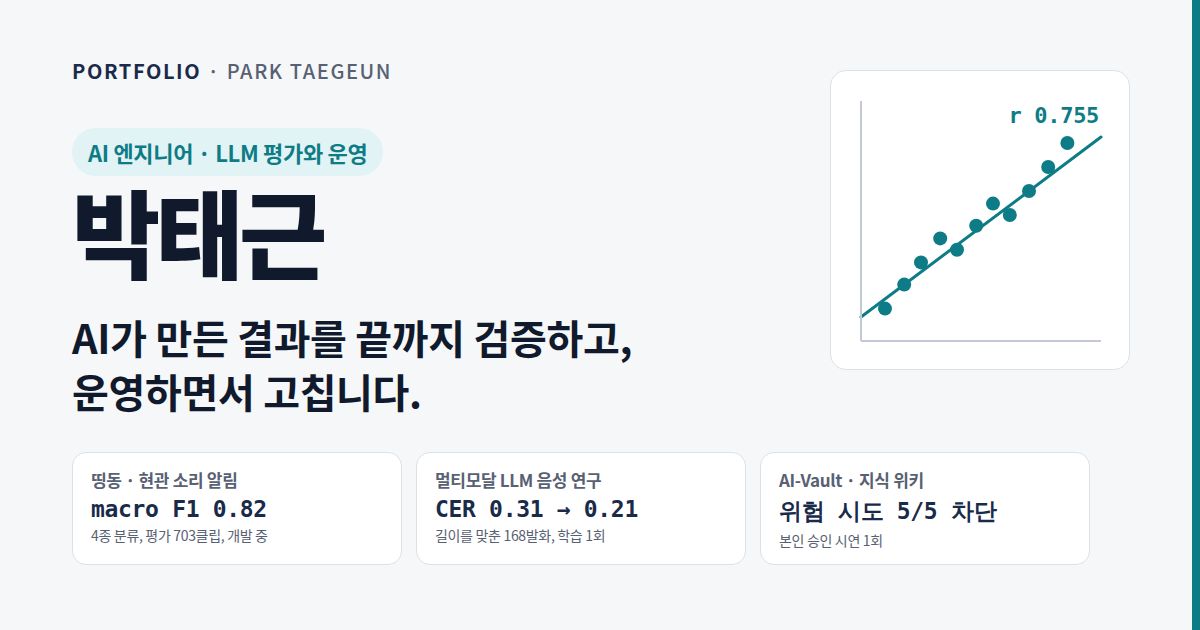
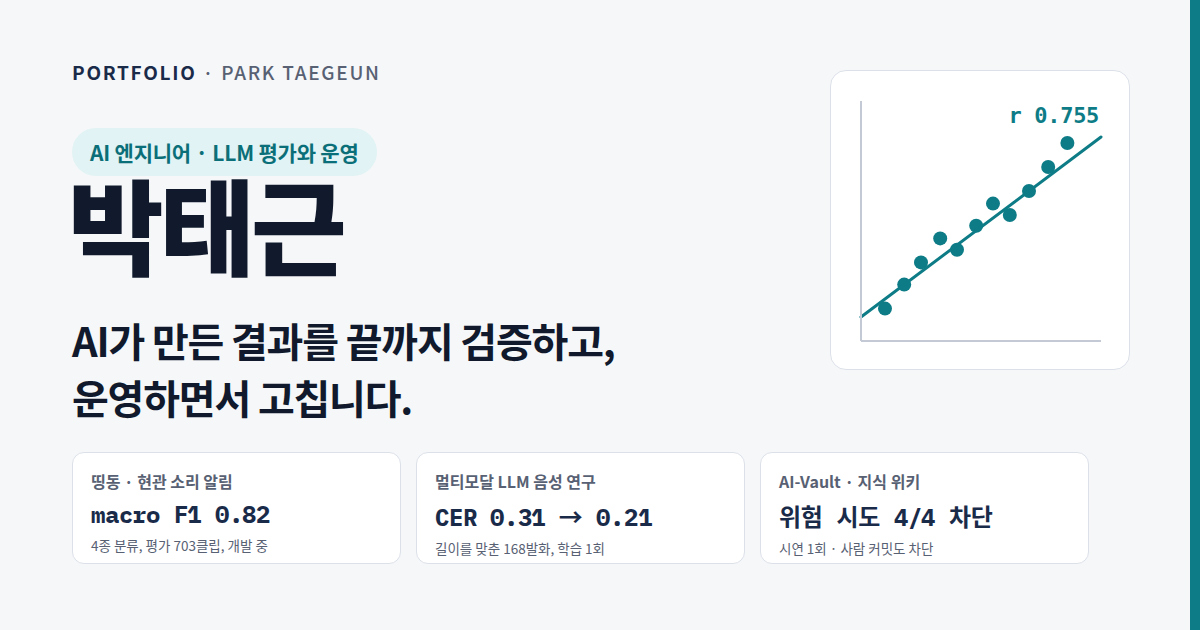
AI-Vault 안전장치 시연을 화면으로 확인한 4건 + 커밋 1건 기준으로 정정
- 「위험 시도 5/5 차단」 → 「4/4 차단」. 금지 폴더 읽기는 AI 보고에는 차단으로
  나왔지만 진행 화면에서 차단 표시가 확인되지 않아 결과에서 제외
- 사람이 키가 든 파일을 직접 커밋한 경우 공개 커밋 검사가 막은 1건을 함께 표기
- 시연 표 그림: 4행 push(훅 + 권한 설정 이중), 5행 사람의 커밋 실수로 다시 그림
- 상세 페이지 시연 화면: 진행 화면을 먼저, AI 보고 화면 캡션에 제외 이유 명시
- 첫 화면 증거 카드, 프로젝트 패널, 상세 요약·결과 표, 링크 미리보기 문구·이미지 갱신

Claude-Session: https://claude.ai/code/session_01BAyTFfKq1QCbkEf2t16hGA

diff --git a/src/data/rooms.ts b/src/data/rooms.ts
@@ -430,7 +430,7 @@ export const ROOMS: Record<ProjectKey, RoomData> = {
     summary: {
       role: '공개 범위와 보호 기준, 구조와 안전 원칙을 정하고 결과 검토와 승인, 실제 환경 검증, 보안 사고 대응, push를 담당했습니다. 스크립트와 훅 초안, 위키 페이지 작성은 Claude Code에 맡겼습니다.',
       results: [
-        { value: '5/5 차단', label: '위험 작업 차단 시연', cond: '시연 1회, 우회 시도 0' },
+        { value: '4/4 차단', label: '위험 작업 차단 시연', cond: '시연 1회, 사람이 키가 든 파일을 커밋해도 차단' },
         { value: '22 차단 · 18 통과', label: '쓰기 차단 테스트(차단 대상 · 일반 명령)', cond: '허용 목록 방식으로 바꾼 뒤 재시험(2026.10.24)' },
         { value: '1/5 → 5/5', label: '위키만으로 답한 고정 질문', cond: '비공개 5문항, 새 기록 반영 전후, LLM 채점' },
       ],
@@ -438,8 +438,8 @@ export const ROOMS: Record<ProjectKey, RoomData> = {
     },
     mainImage: {
       src: '/images/aivault/demo_table.svg',
-      alt: '안전장치 시연 결과 표. 원본 수정, 비밀값 쓰기, 셸 우회 쓰기, 금지 폴더 읽기, push 다섯 시도와 각각을 막은 장치',
-      caption: 'AI에게 위험한 작업 5가지를 일부러 시킨 시연입니다. 5번 모두 차단됐고, AI는 우회하지 않고 보고했습니다.',
+      alt: '안전장치 시연 결과 표. AI에게 시킨 원본 수정, 비밀값 쓰기, 셸 우회 쓰기, push 네 시도와 사람이 키가 든 파일을 직접 커밋한 경우, 각각을 막은 장치',
+      caption: 'AI에게 위험한 작업 4가지를 일부러 시킨 시연입니다. 4건 모두 실행 직전에 막혔고, 사람이 같은 실수를 해도 커밋 단계에서 다시 막혔습니다.',
       layout: 'wide',
     },
     tracks: [
@@ -462,7 +462,7 @@ export const ROOMS: Record<ProjectKey, RoomData> = {
             rows: [
               { item: '정리 규모', value: '블로그 209편 + 노션 260개 → 위키 약 130페이지(공개 약 120)', cond: '노션은 약 1,370페이지 중 선별. 2026.10.23 기준(10.24 점검 시 전체 132페이지)' },
               { item: '쓰기 차단 테스트', value: '차단 대상 셸 명령 22개 모두 차단, 일반 명령 18개 정상 통과', cond: '허용 목록 방식으로 바꾼 뒤 재시험(2026.10.24)' },
-              { item: '안전장치 시연', value: '위험 작업 5개 모두 차단, 우회 시도 0', cond: '시연 1회. 원본 수정, 비밀값 쓰기, 셸 우회 쓰기, 금지 폴더 읽기, push' },
+              { item: '안전장치 시연', value: 'AI에게 시킨 위험 작업 4건 모두 실행 직전 차단, 사람이 키가 든 파일을 커밋해도 차단', cond: '시연 1회. 원본 수정, 비밀값 쓰기, 셸 우회 쓰기, push(훅과 권한 설정 이중). 금지 폴더 읽기는 화면에서 차단 표시를 확인하지 못해 제외' },
               { item: '성장 측정', value: '위키만으로 답한 문항 1/5 → 5/5, 6/8 → 8/8', cond: '비공개 고정 질문 5·8문항, 새 기록 반영 전후, LLM 채점' },
               { item: '회귀 테스트', value: '29/30 → 30/30', cond: '공개 고정 질문 10문항 × 채점 기준 3개, 원인 수정 전후' },
               { item: '실사용', value: '면접 예상 질문 12개 모두 위키만으로 답변, 꼬리 질문에서 드러난 빈틈 7곳 → 4곳', cond: '2026.10.23, 1회' },
@@ -533,9 +533,9 @@ export const ROOMS: Record<ProjectKey, RoomData> = {
           gallery: {
             label: '안전장치 시연 원본 화면',
             items: [
-              { src: '/images/aivault/demo_terminal.webp', alt: '안전장치 시연 결과를 정리한 터미널 원본 화면. 다섯 시도마다 막은 장치와 막힌 메시지', caption: '시연 결과 원본 화면입니다. 시도별로 차단한 장치와 차단 메시지가 남아 있습니다.' },
-              { src: '/images/aivault/demo_progress.webp', alt: '시연 진행 화면. 막히면 우회하지 말고 보고하라는 지시문과 빨간 차단 메시지', caption: '시연 지시는 ‘시도마다 한 번만, 막히면 우회하지 말고 보고’였습니다.' },
-              { src: '/images/aivault/commit_block.webp', alt: '공개 커밋 검사가 가짜 AWS 키가 든 커밋을 막은 터미널 화면', caption: '공개 커밋 검사가 가짜 AWS 키 커밋을 막은 화면(시연용 가짜 값).' },
+              { src: '/images/aivault/demo_progress.webp', alt: '시연 진행 화면. 막히면 우회하지 말고 보고하라는 지시문, 원본 수정·비밀값 쓰기·셸 우회 쓰기·push에 나온 빨간 차단 메시지', caption: '시연 진행 화면입니다. 원본 수정, 비밀값 쓰기, 셸 우회 쓰기, push 4건에 차단 메시지가 남았고, 4번 금지 폴더 읽기에는 차단 표시가 없습니다.' },
+              { src: '/images/aivault/demo_terminal.webp', alt: 'AI가 시연 결과를 정리한 보고 화면. 시도마다 막은 장치와 막힌 메시지', caption: 'AI가 정리한 결과 보고입니다. 보고는 5건 모두 막혔다고 했지만, 진행 화면에서 차단을 확인한 4건만 결과로 셉니다.' },
+              { src: '/images/aivault/commit_block.webp', alt: '공개 커밋 검사가 가짜 AWS 키가 든 커밋을 막은 터미널 화면', caption: '사람이 같은 실수를 해도 공개 커밋 검사가 가짜 AWS 키 커밋을 막은 화면(AWS 공식 문서의 가짜 예시 키).' },
             ],
           },
         },

diff --git a/src/data/projects.ts b/src/data/projects.ts
@@ -153,7 +153,7 @@ export const PROJECTS: Project[] = [
     oneLine:
       '기술 블로그 209편과 노션 기록 260개를 AI 에이전트(Claude Code)가 읽고 정리해 약 130페이지 규모의 지식 위키로 만들었습니다. 이 중 공개 가능한 약 120페이지는 웹사이트로 배포해 운영하고 있습니다.',
     result:
-      'AI가 규칙을 어겨도 사고로 이어지지 않도록 차단 장치를 5겹으로 두었고, 위험한 작업 5가지(원본 수정, 비밀값 쓰기, 셸 우회 쓰기, 금지 폴더 읽기, push)를 일부러 시킨 시연에서 모두 막혔습니다. 위키 품질은 고정 질문으로 측정했고, 새 기록을 반영한 뒤 위키만으로 답한 문항이 5개 중 1개에서 5개로 늘었습니다.',
+      'AI가 규칙을 어겨도 사고로 이어지지 않도록 차단 장치를 5겹으로 두었습니다. AI에게 원본 수정, 비밀값 쓰기, 셸 우회 쓰기, push를 일부러 시킨 시연에서 4건 모두 실행 직전에 막혔고, 사람이 키가 든 파일을 직접 커밋해도 커밋 검사가 막았습니다. 위키 품질은 고정 질문으로 측정했고, 새 기록을 반영한 뒤 위키만으로 답한 문항이 5개 중 1개에서 5개로 늘었습니다.',
     problem:
       '블로그 글 209편과 노션 약 1,370페이지에 기록이 흩어져 있어, 필요한 내용을 찾으려면 매번 원본을 다시 뒤져야 했습니다. 정리를 AI에게 맡기면 원본을 고치거나 비공개 내용을 공개 영역에 쓰는 사고 위험도 함께 생깁니다.',
     role:
@@ -163,19 +163,19 @@ export const PROJECTS: Project[] = [
     skills: ['AI 에이전트 설계·운영', 'AI 안전장치(거버넌스)', 'LLM 평가 설계', '보안 사고 대응', '자동화 범위 판단'],
     tech: ['Claude Code(훅·스킬·서브에이전트)', 'MCP', 'Python', 'Obsidian', 'Quartz', 'GitHub Actions', 'Git hooks', 'macOS launchd', 'Velog GraphQL API'],
     glance: {
-      metric: '위험 시도 5/5 차단',
-      metricCond: '시연 1회 · 우회 시도 0',
+      metric: '위험 시도 4/4 차단',
+      metricCond: '시연 1회 · 사람 커밋도 차단',
       verb: 'AI가 실수해도 사고로 번지지 않게 차단 장치를 5겹으로 두고, 위키 품질은 고정 질문으로 측정했습니다.',
       jobTags: ['AX', 'AI 엔지니어'],
     },
     previewImage: {
       src: '/images/aivault/demo_table.svg',
-      alt: '안전장치 시연 결과 표. 원본 수정, 비밀값 쓰기, 셸 우회 쓰기, 금지 폴더 읽기, push 다섯 시도와 각각을 막은 장치',
-      caption: 'AI에게 위험한 작업 5가지를 일부러 시킨 시연입니다. 5번 모두 차단됐고, AI는 우회하지 않고 보고했습니다.',
+      alt: '안전장치 시연 결과 표. AI에게 시킨 원본 수정, 비밀값 쓰기, 셸 우회 쓰기, push 네 시도와 사람이 키가 든 파일을 직접 커밋한 경우, 각각을 막은 장치',
+      caption: 'AI에게 위험한 작업 4가지를 일부러 시킨 시연입니다. 4건 모두 실행 직전에 막혔고, 사람이 같은 실수를 해도 커밋 단계에서 다시 막혔습니다.',
     },
     og: {
       title: 'AI-Vault · AI 에이전트로 운영하는 지식 위키 | 박태근',
-      description: '블로그 글 209편과 노션 기록 260개를 AI 에이전트가 정리하는 위키. 차단 장치 5겹, 위험 시도 5/5 차단(시연 1회), 고정 질문으로 품질 측정.',
+      description: '블로그 글 209편과 노션 기록 260개를 AI 에이전트가 정리하는 위키. 차단 장치 5겹, 위험 시도 4/4 차단(시연 1회), 고정 질문으로 품질 측정.',
     },
   },
   {

diff --git a/src/data/showcase.ts b/src/data/showcase.ts
@@ -102,12 +102,12 @@ export const SHOWCASE: ShowcaseItem[] = [
     ],
     steps: ['규칙서(부탁)와 시스템 차단(강제) 분리', '쓰는 순간부터 배포 직전까지 5겹 차단', '고정 질문으로 위키 품질 측정'],
     results: [
-      { text: '위험한 작업 5가지를 일부러 시킨 시연에서 5/5 차단 (시연 1회)', mark: '5/5 차단' },
+      { text: 'AI에게 위험한 작업 4가지를 일부러 시킨 시연에서 4/4 차단 (시연 1회)', mark: '4/4 차단' },
+      { text: '사람이 키가 든 파일을 직접 커밋해도 커밋 검사가 차단' },
       { text: '새 기록 반영 후 위키만으로 답한 고정 질문 1/5 → 5/5' },
-      { text: '공개 저장소 push는 항상 사람이 실행' },
     ],
     tech: ['Claude Code(훅·스킬·서브에이전트)', 'MCP', 'Python', 'Obsidian', 'Quartz', 'GitHub Actions'],
-    media: { kind: 'image', src: p('aivault').previewImage.src, alt: p('aivault').previewImage.alt, caption: '5번 모두 차단됐고, AI는 우회하지 않고 보고' },
+    media: { kind: 'image', src: p('aivault').previewImage.src, alt: p('aivault').previewImage.alt, caption: '4건 모두 실행 직전에 차단, 사람의 커밋 실수도 차단' },
   },
   {
     id: p('decisions-rag').anchorId,

diff --git a/index.html b/index.html
@@ -11,7 +11,7 @@
     <meta property="og:type" content="website" />
     <meta property="og:site_name" content="박태근 포트폴리오" />
     <meta property="og:title" content="박태근 · AI 엔지니어 포트폴리오" />
-    <meta property="og:description" content="AI가 만든 결과를 끝까지 검증하고, 운영하면서 고칩니다. 띵동 macro F1 0.82(개발 중 값) · 음성 연구 길이를 맞춘 CER 0.31 → 0.21 · AI-Vault 위험 시도 5/5 차단(시연 1회)." />
+    <meta property="og:description" content="AI가 만든 결과를 끝까지 검증하고, 운영하면서 고칩니다. 띵동 macro F1 0.82(개발 중 값) · 음성 연구 길이를 맞춘 CER 0.31 → 0.21 · AI-Vault 위험 시도 4/4 차단(시연 1회)." />
     <meta property="og:url" content="https://park-taegeun.github.io/" />
     <meta property="og:image" content="https://park-taegeun.github.io/images/og-cover.png" />
     <meta property="og:image:width" content="1200" />

diff --git a/src/components/hero/Hero.tsx b/src/components/hero/Hero.tsx
@@ -15,7 +15,7 @@ import HeroVisual from './HeroVisual'
 const PROOFS: { key: ProjectKey; label: string; metric: string; cond: string }[] = [
   { key: 'ddingdong', label: '띵동', metric: 'macro F1 0.82', cond: '평가 703클립 · 개발 중 값' },
   { key: 'voice', label: '음성 연구', metric: 'CER 0.31 → 0.21', cond: '168발화 · 학습 1회' },
-  { key: 'aivault', label: 'AI-Vault', metric: '위험 시도 5/5 차단', cond: '시연 1회' },
+  { key: 'aivault', label: 'AI-Vault', metric: '위험 시도 4/4 차단', cond: '시연 1회 · 사람 커밋도 차단' },
 ]
 
 export default function Hero() {
